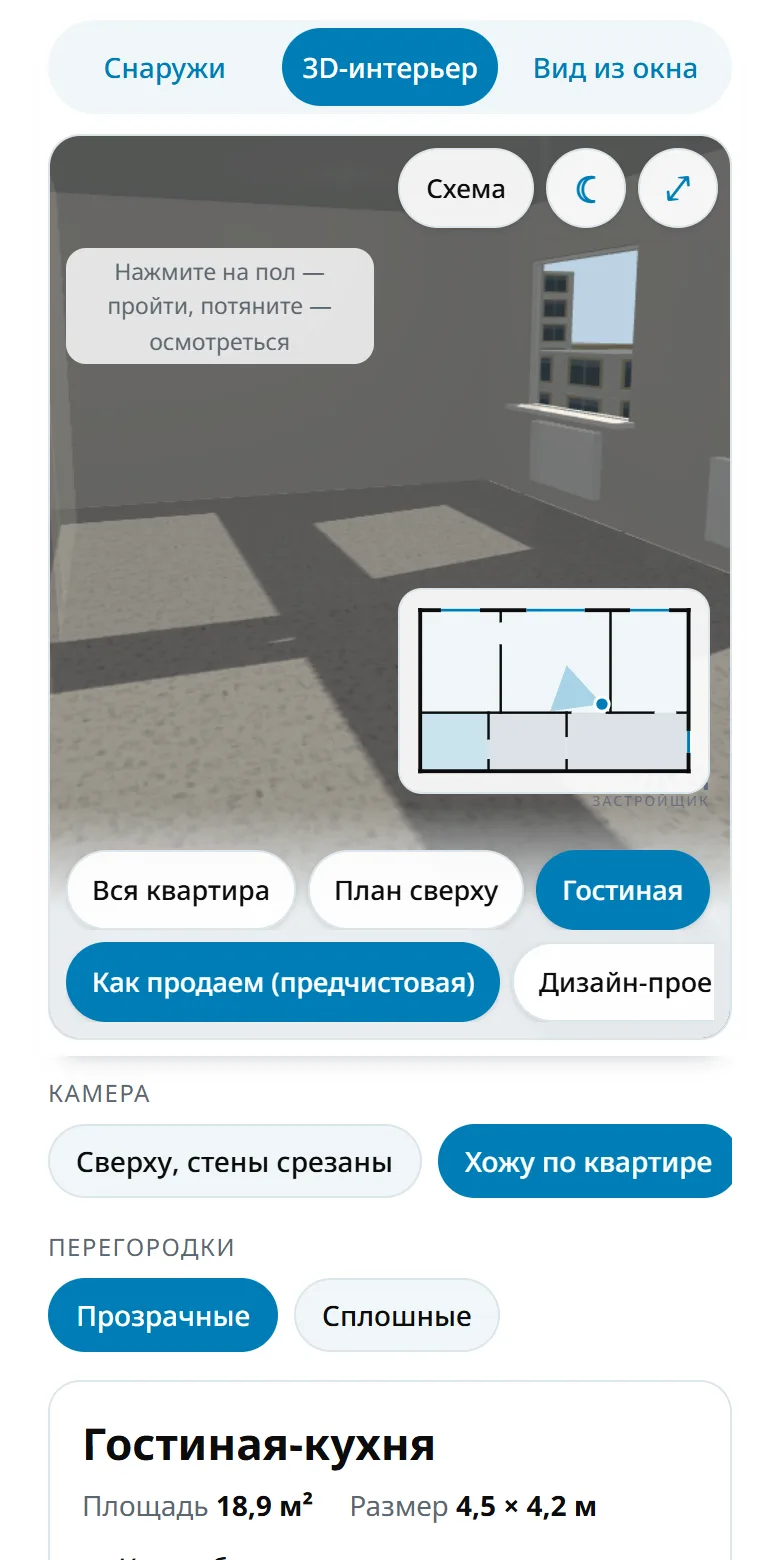
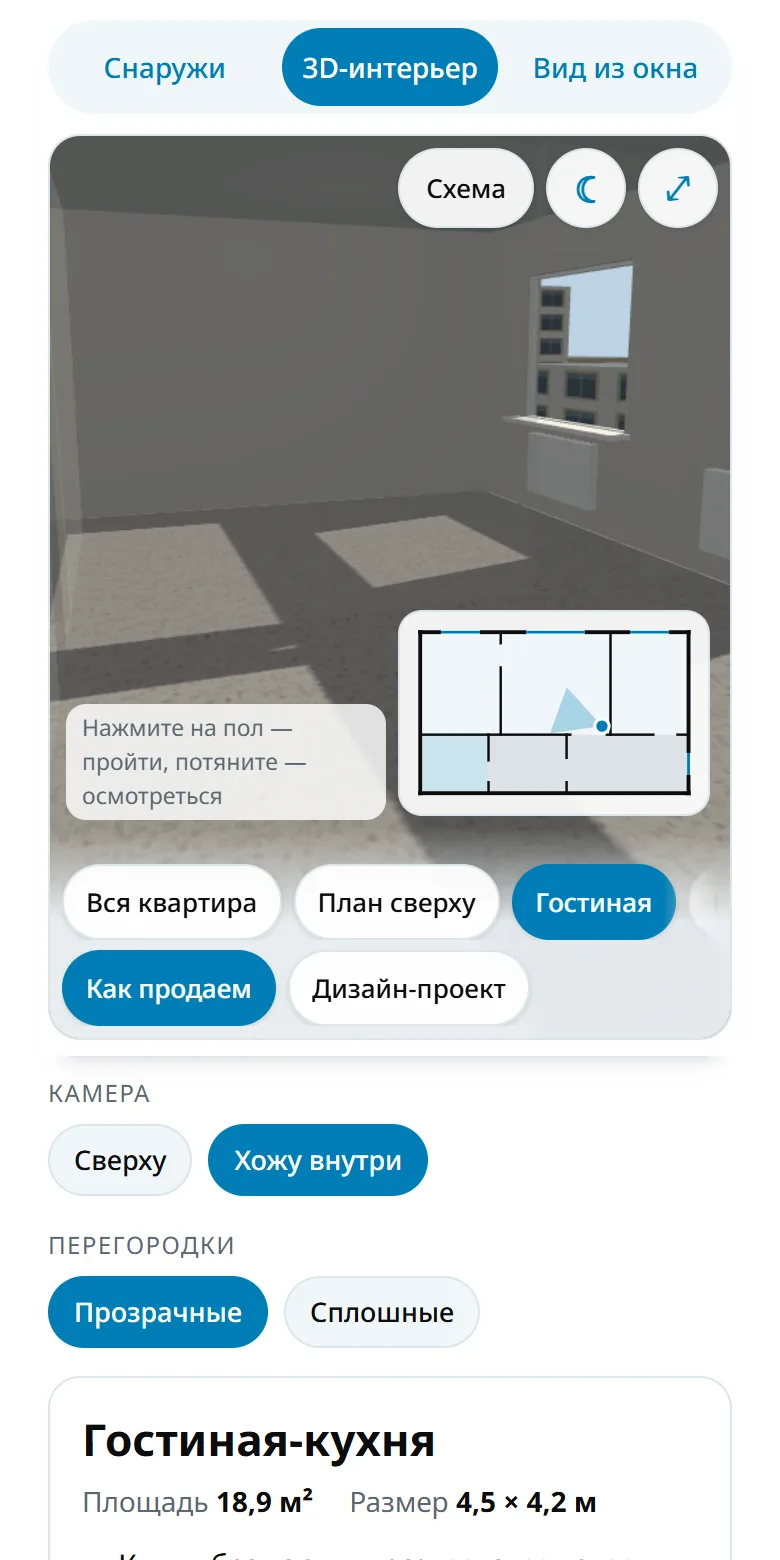
Мобильная версия: всё помещается на 320–414 px
Короткие подписи кнопок на телефоне, компактные чипы на сцене, затухание у края прокручиваемых рядов; план этажа вписывается по ширине из любого режима; подсказка в интерьере не закрывает комнаты, логотип не налезает на мини-карту; короче список корпусов; КП: кнопки нижней панели и переключатель объёма в одну строку.

diff --git a/demo/index.html b/demo/index.html
@@ -174,7 +174,26 @@ svg text{font-family:var(--f-body)}
   .logo{bottom:calc(var(--dockh) + 8px);right:10px;font-size:14px}
   .logo small{font-size:7px;top:16px}
   .tbar{right:6px;top:6px}
+  /* compact chips on the stage, so a row holds more */
+  .dock{gap:5px;padding:18px 6px 6px}
+  .dock .chip{min-height:38px;padding:6px 11px;font-size:13px}
+  .dock .chip.fl{min-width:36px;padding:6px 6px}
+  .chip{padding:8px 12px;font-size:13.5px}
+  /* interior: the hint sits above the dock (no location badge there), off the room labels */
+  .stage[data-mode="int"] .hint{top:auto;bottom:calc(var(--dockh) + 4px);right:auto;max-width:calc(100% - 96px);text-align:left}
+  .stage.walk .logo{display:none}
+  .stage.walk[data-mode="int"] .hint{max-width:calc(100% - min(46%,190px) - 24px)}
+  .sh-head h2{font-size:22px}
 }
+@media (max-width:360px){
+  .tabs button{font-size:13px;padding:9px 2px}
+  .tbar .planbtn{padding:6px 10px}
+  .icobtn{width:38px;height:38px}
+}
+/* rows of chips wider than the screen fade out at the side they continue to */
+.chips.more-r{-webkit-mask-image:linear-gradient(to right,#000 calc(100% - 28px),transparent);mask-image:linear-gradient(to right,#000 calc(100% - 28px),transparent)}
+.chips.more-l{-webkit-mask-image:linear-gradient(to left,#000 calc(100% - 28px),transparent);mask-image:linear-gradient(to left,#000 calc(100% - 28px),transparent)}
+.chips.more-l.more-r{-webkit-mask-image:linear-gradient(to right,transparent,#000 28px,#000 calc(100% - 28px),transparent);mask-image:linear-gradient(to right,transparent,#000 28px,#000 calc(100% - 28px),transparent)}
 </style>
 </head>
 <body>
@@ -1120,6 +1139,7 @@ svg text{font-family:var(--f-body)}
     const c = v.out ? v : ABOVE[key];
     const rm = ROOMS.find((x) => x.id === v.card);
     const need = v.out ? (v.need || 12) : Math.max(rm.w, rm.d) + 3.5;
+    updateFov();   // fit with the field of view of the camera mode we are going to, not the one we come from (walk is wider)
     const p = new THREE.Vector3(...c.pos), t = new THREE.Vector3(...c.tgt);
     const d0 = p.distanceTo(t), asp = camera.aspect || 1;
     const dmin = need / (2 * Math.tan(THREE.MathUtils.degToRad(camera.fov) / 2) * Math.min(asp, 1.6));
@@ -1150,7 +1170,8 @@ svg text{font-family:var(--f-body)}
   function limits() {
     if (S.mode === 'ext') { controls.minDistance = 6; controls.maxDistance = S.extView === 'city' ? 30000 : 2200; controls.enablePan = true; controls.maxPolarAngle = Math.PI / 2 - 0.02; return; }
     if (S.mode === 'win' || S.cam === 'walk') return;
-    controls.minDistance = 2; controls.maxDistance = 30; controls.enablePan = true; controls.maxPolarAngle = Math.PI / 2 - 0.03;
+    // a narrow phone needs the camera further out to fit the whole floor; never clamp it closer than the view put it
+    controls.minDistance = 2; controls.maxDistance = Math.max(30, camera.position.distanceTo(controls.target) * 1.15); controls.enablePan = true; controls.maxPolarAngle = Math.PI / 2 - 0.03;
   }
   function flyTo(pos, tgt, instant, fov) {
     controls.minDistance = 0; controls.maxDistance = 100; controls.maxPolarAngle = Math.PI;
@@ -1273,16 +1294,21 @@ svg text{font-family:var(--f-body)}
   function chip(parent, text, test, fn, opt) {
     const b = document.createElement('button'); b.type = 'button'; b.className = 'chip' + (opt && opt.cls ? ' ' + opt.cls : '');
     if (opt && opt.dots) { const s = document.createElement('span'); s.className = 'dots'; opt.dots.forEach((c) => { const i = document.createElement('i'); i.style.background = c; s.appendChild(i); }); b.appendChild(s); }
-    b.appendChild(document.createTextNode(text)); b.addEventListener('click', fn); parent.appendChild(b);
+    if (opt && opt.short) {   // a shorter label for phones (.lg / .sm switch at the 640px breakpoint)
+      const l = document.createElement('span'); l.className = 'lg'; l.textContent = text; const s = document.createElement('span'); s.className = 'sm'; s.textContent = opt.short;
+      b.appendChild(l); b.appendChild(s);
+    } else b.appendChild(document.createTextNode(text));
+    b.addEventListener('click', fn); parent.appendChild(b);
     sync.push(() => b.setAttribute('aria-pressed', test() ? 'true' : 'false')); return b;
   }
   const chips = {};
-  chip($('rFinish'), 'Как продаем (предчистовая)', () => S.finish === 'bare', () => { S.finish = 'bare'; refresh(); });
+  chip($('rFinish'), 'Как продаем (предчистовая)', () => S.finish === 'bare', () => { S.finish = 'bare'; refresh(); }, { short: 'Как продаем' });
   chip($('rFinish'), 'Дизайн-проект', () => S.finish === 'design', () => { S.finish = 'design'; refresh(); });
   Object.keys(VIEWS).forEach((k) => chip($('rView'), VIEWS[k].label, () => S.view === k, () => { S.view = k; if (VIEWS[k].out) S.cam = 'top'; enterInterior(false); refresh(true); }));
-  chip($('rCam'), 'Сверху, стены срезаны', () => S.cam === 'top', () => { S.cam = 'top'; enterInterior(false); refresh(true); });
-  chip($('rCam'), 'Хожу по квартире', () => S.cam === 'walk', () => { S.cam = 'walk'; if (VIEWS[S.view].out) S.view = 'living'; enterInterior(true); refresh(true); });
-  Object.keys(EXTV).forEach((k) => chip($('rExtView'), EXTV[k].label, () => S.extView === k, () => { S.extView = k; flyExt(false); refresh(true); }));
+  chip($('rCam'), 'Сверху, стены срезаны', () => S.cam === 'top', () => { S.cam = 'top'; enterInterior(false); refresh(true); }, { short: 'Сверху' });
+  chip($('rCam'), 'Хожу по квартире', () => S.cam === 'walk', () => { S.cam = 'walk'; if (VIEWS[S.view].out) S.view = 'living'; enterInterior(true); refresh(true); }, { short: 'Хожу внутри' });
+  const EXT_SHORT = { yard: 'Со двора', top: 'Сверху', back: 'С улицы', all: 'Все корпуса', area: 'Окрестности', city: 'Весь город' };
+  Object.keys(EXTV).forEach((k) => chip($('rExtView'), EXTV[k].label, () => S.extView === k, () => { S.extView = k; flyExt(false); refresh(true); }, { short: EXT_SHORT[k] }));
   chip($('rHouse'), 'Прозрачный', () => S.house === 'glass', () => { S.house = 'glass'; refresh(true); });
   chip($('rHouse'), 'Сплошной', () => S.house === 'solid', () => { S.house = 'solid'; refresh(true); });
   chip($('rInner'), 'Выделена цветом', () => !S.inner, () => { S.inner = false; refresh(true); });
@@ -1375,7 +1401,7 @@ svg text{font-family:var(--f-body)}
   const selSec = $('selSec');
   SECTIONS.forEach((sec) => { const o = document.createElement('option'); o.value = sec.i; selSec.appendChild(o); });
   function fillSelect() {
-    Array.prototype.forEach.call(selSec.options, (o, i) => { const sec = SECTIONS[i]; o.textContent = (sec.own ? '★ ' : '') + secName(sec) + ' · свободно ' + sec.free + ' из ' + sec.total; });
+    Array.prototype.forEach.call(selSec.options, (o, i) => { const sec = SECTIONS[i]; o.textContent = (sec.own ? '★ ' : '') + (narrow() ? 'Кв-л ' + sec.q + ', секц. ' + sec.n + ' · своб. ' + sec.free + ' из ' + sec.total : secName(sec) + ' · свободно ' + sec.free + ' из ' + sec.total); });
     selSec.value = S.sec;
   }
   selSec.addEventListener('change', () => selectSection(+selSec.value));
@@ -1388,7 +1414,7 @@ svg text{font-family:var(--f-body)}
     const tx = document.createTextNode(''); b.appendChild(tx); aptBtns[l] = { dot: dot, tx: tx };
   });
   function fillApts() {
-    LETTERS.forEach((l) => { const st = status(S.sec, S.floor, l), t = TYPES[l]; aptBtns[l].dot.style.background = ST[st].c; aptBtns[l].tx.nodeValue = ' ' + t.n + ' · ' + (narrow() ? t.short.replace('-комн.', '-к') : t.short) + ' ' + fmt(t.area); });
+    LETTERS.forEach((l) => { const st = status(S.sec, S.floor, l), t = TYPES[l]; aptBtns[l].dot.style.background = ST[st].c; aptBtns[l].tx.nodeValue = ' ' + t.n + ' · ' + (narrow() ? t.short.replace('-комн.', '-к') : t.short + ' ' + fmt(t.area)); });   // phones: all four fit in one row, the area is in the card
   }
   const actPlan = chip($('rAct'), 'Схема планировки', () => false, () => openPlan());
   const act3d = chip($('rAct'), 'Интерьер 3D', () => false, () => { S.mode = 'ext'; enterInterior(true); refresh(true); });
@@ -1402,6 +1428,10 @@ svg text{font-family:var(--f-body)}
 
   chip($('rTime'), 'День', () => S.time === 'day', () => { S.time = 'day'; refresh(); });
   chip($('rTime'), 'Вечер', () => S.time === 'eve', () => { S.time = 'eve'; refresh(); });
+  // a chip row wider than the screen fades out at the edge it continues past, so it is clear there is more to swipe to
+  function fades(r) { const more = r.scrollWidth > r.clientWidth + 2; r.classList.toggle('more-r', more && r.scrollLeft + r.clientWidth < r.scrollWidth - 2); r.classList.toggle('more-l', more && r.scrollLeft > 2); }
+  document.querySelectorAll('.chips').forEach((r) => r.addEventListener('scroll', () => fades(r), { passive: true }));
+  addEventListener('resize', () => document.querySelectorAll('.chips').forEach(fades));
   // phones: one round day/evening toggle instead of two chips; it shows what a tap switches to
   const timeBtn = $('timeBtn');
   timeBtn.addEventListener('click', () => { S.time = S.time === 'day' ? 'eve' : 'day'; refresh(); });
@@ -1542,6 +1572,7 @@ svg text{font-family:var(--f-body)}
     wake(); renderer.shadowMap.needsUpdate = true;
     $('pInt').hidden = S.mode !== 'int'; $('pExt').hidden = S.mode !== 'ext';
     dockEl.querySelectorAll('[data-m]').forEach((r) => { r.hidden = r.dataset.m.split(' ').indexOf(S.mode) < 0; });
+    stageEl.dataset.mode = S.mode;
     stageEl.style.setProperty('--dockh', dockEl.offsetHeight + 'px'); updateFov();
     $('rowStyle').hidden = S.finish !== 'design';
     $('rowSee').hidden = !(S.mode === 'int' && S.cam === 'walk');
@@ -1554,6 +1585,7 @@ svg text{font-family:var(--f-body)}
     dockEl.querySelectorAll('.chip[aria-pressed="true"]').forEach((b) => {   // keep the chosen chip of each dock row in sight (floor 8 sits past the edge on a phone)
       const r = b.parentNode; if (b.offsetLeft < r.scrollLeft || b.offsetLeft + b.offsetWidth > r.scrollLeft + r.clientWidth) r.scrollLeft = b.offsetLeft - (r.clientWidth - b.offsetWidth) / 2;
     });
+    document.querySelectorAll('.chips').forEach(fades);
     if (S.mode === 'win') describe();
     if (S.mode !== 'win' && !anim) updateFov();
   }

diff --git a/index.html b/index.html
@@ -166,7 +166,8 @@ footer{border-top:1px solid var(--line);padding:32px 0 40px;margin-top:20px}
 .mbar{display:none}
 @media (max-width:640px){
   .mbar{display:flex;gap:8px;position:fixed;left:0;right:0;bottom:0;z-index:20;padding:10px max(12px,env(safe-area-inset-right,0px)) max(10px,env(safe-area-inset-bottom,0px)) max(12px,env(safe-area-inset-left,0px));background:color-mix(in srgb,#fff 94%,transparent);box-shadow:0 -6px 16px -10px rgba(15,40,55,.35)}
-  .mbar .btn{flex:1;justify-content:center;margin:0}
+  .mbar .btn{flex:1;justify-content:center;margin:0;padding:10px 12px;font-size:15px;white-space:nowrap}
+  .seg{flex-wrap:nowrap}.seg button{flex:1;padding:8px 10px;white-space:nowrap}
   body{padding-bottom:76px}
   .topbar{font-size:13.5px;padding:8px 12px}
   h1{font-size:30px}

diff --git a/CLAUDE.md b/CLAUDE.md
@@ -46,3 +46,4 @@
 - Вкладки режимов и 3D-сцена обёрнуты в `.pin` (`position:sticky; top:0`): при прокрутке к панелям ниже сцена остаётся на месте (просьба пользователя, 27.10.2026). Высота сцены `clamp(340px,58vh,640px)`, чтобы под ней оставалось место; при высоте окна < 560px (телефон боком) не закрепляется.
 - Порядок вкладок: **Снаружи → 3D-интерьер → Вид из окна**; демо открывается на «Снаружи» у нашей квартиры (в конце инициализации `enterExt`). Экраны в КП и `tools/mockups.js` — в том же порядке.
 - Телефон (≤640px, `narrow()` в JS — тот же порог): плашка и заголовок компактные (`.lg`/`.sm` — длинный и короткий варианты текста), сверху сцены один ряд `.tbar` (Схема, переключатель день/вечер `#timeBtn` вместо чипов `#rTime`, `#fullBtn`), подпись местоположения — одной строкой над доком, подсказка короткая и прячется через 4 с, кнопки квартир «А · 3-к 72,6». Полноэкранный режим — `body.full` (блок `.pin` на весь экран, строка-дисклеймер `.fullnote` под сценой). Блок CSS для телефонов стоит в конце `<style>`, иначе базовые правила его перебивают. КП на телефоне: закреплённая снизу панель `.mbar` (Открыть демо, Позвонить).
+- Проверка «всё помещается» на 320/360/375/390/414 px: ряды чипов шире экрана затухают у края (`fades()` → классы `more-l/more-r`); у чипов есть короткая подпись для телефона (`chip(..., { short })`); камера плана вписывает этаж по углу обзора целевого режима (`updateFov()` в `camFor`), `maxDistance` в интерьере не меньше расстояния вида.
